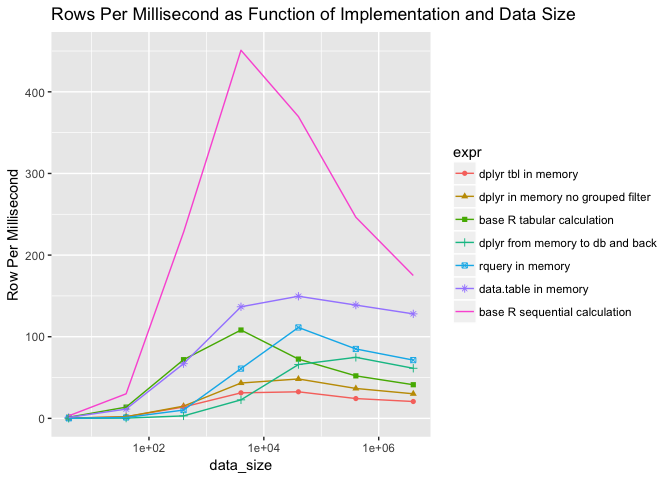
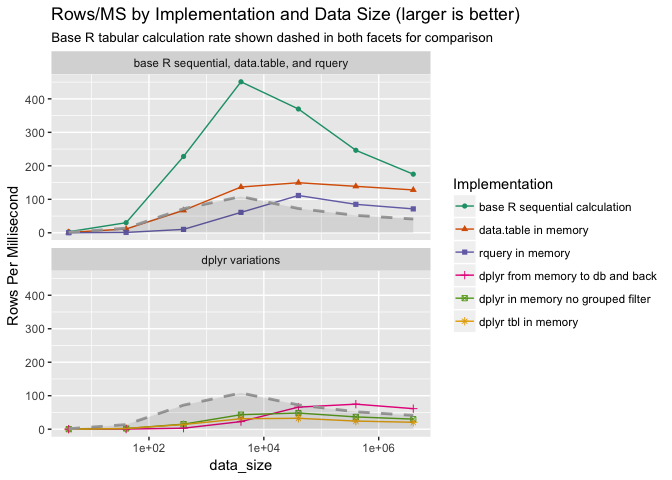
added faceting to timing by size graph

diff --git a/extras/QTimingFollowup/plotexample.md b/extras/QTimingFollowup/plotexample.md
@@ -80,98 +80,51 @@ for(sz in sizes) {
 Note: `"rquery in memory"` is `rquery` starting and finishing with in-memory `data.frame`s, the implementation uses a user chosen SQL engine (usually one of PostgreSQL, SparkSQL, or SQLite; in this case PostgreSQL).
 
 ``` r
-summary <- tr %.>% 
+summaryF <- tr %.>% 
   as.data.frame(.) %.>%
   project_nse(., groupby = c("expr", "data_size"), 
               durationMS := avg(time)/1000000 ) %.>%
   orderby(., c("data_size", "durationMS")) %>%
   execute(.)
-baseTiming <- min(summary$durationMS)
-summary$relativeDuration <- summary$durationMS / baseTiming
+baseTiming <- min(summaryF$durationMS)
+summaryF$relativeDuration <- summaryF$durationMS / baseTiming
 
-knitr::kable(summary)
+filtercol = with(summaryF, expr=="base R tabular calculation")
+baselineF = summaryF[filtercol, , drop=FALSE]
+compsF = summaryF[!filtercol, , drop=FALSE]
+
+baseline_color = "darkgray"
+
+# break the tasks into two groups
+compsF$gp = "base R sequential, data.table, and rquery"
+compsF$gp[contains("dplyr", vars=compsF$expr)] = "dplyr variations"
+
+# control the ordering of the tasks
+compsF$expr = factor(compsF$expr, levels=c(
+                       "base R sequential calculation",
+                       "data.table in memory",
+                       "rquery in memory",
+                       "dplyr from memory to db and back",
+                       "dplyr in memory no grouped filter",
+                       "dplyr tbl in memory"
+                       ))
+
+
+ggplot(data=compsF, aes(x=data_size, y=data_size/durationMS, 
+                         color=expr)) +
+  geom_point(aes(shape=expr)) + geom_line() + 
+  geom_line(data=baselineF, 
+            aes(x=data_size, y=data_size/durationMS), 
+            color=baseline_color, linetype=2, size=1) +
+  geom_ribbon(data=baselineF, 
+            aes(x=data_size, ymax=data_size/durationMS, ymin=0), 
+            color=baseline_color, alpha=0.1, size=0) +
+  scale_x_log10() + ylab("Rows Per Millisecond") +
+  facet_wrap(~gp, ncol=1)  + 
+  scale_color_brewer("Implementation", palette="Dark2") + 
+  scale_shape_discrete("Implementation") + 
+  ggtitle("Rows/MS by Implementation and Data Size (larger is better)", 
+          subtitle="Base R tabular calculation rate shown dashed in both facets for comparison")
 ```
-
-| expr                              |  data\_size|    durationMS|  relativeDuration|
-|:----------------------------------|-----------:|-------------:|-----------------:|
-| base R sequential calculation     |       4e+00|  1.301663e+00|      1.000000e+00|
-| base R tabular calculation        |       4e+00|  2.944919e+00|      2.262428e+00|
-| data.table in memory              |       4e+00|  3.459755e+00|      2.657950e+00|
-| dplyr tbl in memory               |       4e+00|  2.049734e+01|      1.574704e+01|
-| dplyr in memory no grouped filter |       4e+00|  2.377391e+01|      1.826426e+01|
-| rquery in memory                  |       4e+00|  3.670664e+01|      2.819980e+01|
-| dplyr from memory to db and back  |       4e+00|  1.350114e+02|      1.037222e+02|
-| base R sequential calculation     |       4e+01|  1.329386e+00|      1.021298e+00|
-| base R tabular calculation        |       4e+01|  2.908628e+00|      2.234548e+00|
-| data.table in memory              |       4e+01|  3.522076e+00|      2.705827e+00|
-| dplyr tbl in memory               |       4e+01|  1.975426e+01|      1.517617e+01|
-| dplyr in memory no grouped filter |       4e+01|  1.995960e+01|      1.533392e+01|
-| rquery in memory                  |       4e+01|  3.772173e+01|      2.897964e+01|
-| dplyr from memory to db and back  |       4e+01|  1.304257e+02|      1.001993e+02|
-| base R sequential calculation     |       4e+02|  1.755118e+00|      1.348366e+00|
-| base R tabular calculation        |       4e+02|  5.564920e+00|      4.275238e+00|
-| data.table in memory              |       4e+02|  5.971650e+00|      4.587708e+00|
-| dplyr in memory no grouped filter |       4e+02|  2.669408e+01|      2.050768e+01|
-| dplyr tbl in memory               |       4e+02|  2.870596e+01|      2.205330e+01|
-| rquery in memory                  |       4e+02|  3.939951e+01|      3.026860e+01|
-| dplyr from memory to db and back  |       4e+02|  1.326026e+02|      1.018716e+02|
-| base R sequential calculation     |       4e+03|  8.870607e+00|      6.814825e+00|
-| data.table in memory              |       4e+03|  2.926444e+01|      2.248234e+01|
-| base R tabular calculation        |       4e+03|  3.696395e+01|      2.839748e+01|
-| rquery in memory                  |       4e+03|  6.561312e+01|      5.040714e+01|
-| dplyr in memory no grouped filter |       4e+03|  9.242966e+01|      7.100890e+01|
-| dplyr tbl in memory               |       4e+03|  1.279663e+02|      9.830983e+01|
-| dplyr from memory to db and back  |       4e+03|  1.764393e+02|      1.355491e+02|
-| base R sequential calculation     |       4e+04|  1.081891e+02|      8.311606e+01|
-| data.table in memory              |       4e+04|  2.673961e+02|      2.054265e+02|
-| rquery in memory                  |       4e+04|  3.592062e+02|      2.759594e+02|
-| base R tabular calculation        |       4e+04|  5.509727e+02|      4.232837e+02|
-| dplyr from memory to db and back  |       4e+04|  6.068102e+02|      4.661807e+02|
-| dplyr in memory no grouped filter |       4e+04|  8.289808e+02|      6.368628e+02|
-| dplyr tbl in memory               |       4e+04|  1.229089e+03|      9.442453e+02|
-| base R sequential calculation     |       4e+05|  1.623535e+03|      1.247277e+03|
-| data.table in memory              |       4e+05|  2.882483e+03|      2.214461e+03|
-| rquery in memory                  |       4e+05|  4.705146e+03|      3.614719e+03|
-| dplyr from memory to db and back  |       4e+05|  5.351083e+03|      4.110958e+03|
-| base R tabular calculation        |       4e+05|  7.684973e+03|      5.903965e+03|
-| dplyr in memory no grouped filter |       4e+05|  1.091728e+04|      8.387176e+03|
-| dplyr tbl in memory               |       4e+05|  1.648691e+04|      1.266603e+04|
-| base R sequential calculation     |       4e+06|  2.285761e+04|      1.756031e+04|
-| data.table in memory              |       4e+06|  3.125141e+04|      2.400883e+04|
-| rquery in memory                  |       4e+06|  5.605219e+04|      4.306198e+04|
-| dplyr from memory to db and back  |       4e+06|  6.520245e+04|      5.009165e+04|
-| base R tabular calculation        |       4e+06|  9.707545e+04|      7.457801e+04|
-| dplyr in memory no grouped filter |       4e+06|  1.328798e+05|      1.020847e+05|
-| dplyr tbl in memory               |       4e+06|  1.938084e+05|      1.488929e+05|
-
-``` r
-summary$expr <- reorder(summary$expr, -summary$durationMS)
-ggplot(data=summary, aes(x=data_size, y=durationMS, 
-                         color=expr, shape =expr)) +
-  geom_point() + geom_line() + scale_x_log10() + scale_y_log10() +
-  ggtitle("Task Duration as a Function of Implementation and Data Size")
-```
-
-    ## Warning: The shape palette can deal with a maximum of 6 discrete values
-    ## because more than 6 becomes difficult to discriminate; you have 7.
-    ## Consider specifying shapes manually if you must have them.
-
-    ## Warning: Removed 7 rows containing missing values (geom_point).
 
 ![](plotexample_files/figure-markdown_github/unnamed-chunk-2-1.png)
-
-``` r
-ggplot(data=summary, aes(x=data_size, y=data_size/durationMS, 
-                         color=expr, shape=expr)) +
-  geom_point() + geom_line() + scale_x_log10() + 
-  ylab("Row Per Millisecond") +
-  ggtitle("Rows Per Millisecond as Function of Implementation and Data Size")
-```
-
-    ## Warning: The shape palette can deal with a maximum of 6 discrete values
-    ## because more than 6 becomes difficult to discriminate; you have 7.
-    ## Consider specifying shapes manually if you must have them.
-
-    ## Warning: Removed 7 rows containing missing values (geom_point).
-
-![](plotexample_files/figure-markdown_github/unnamed-chunk-2-2.png)
